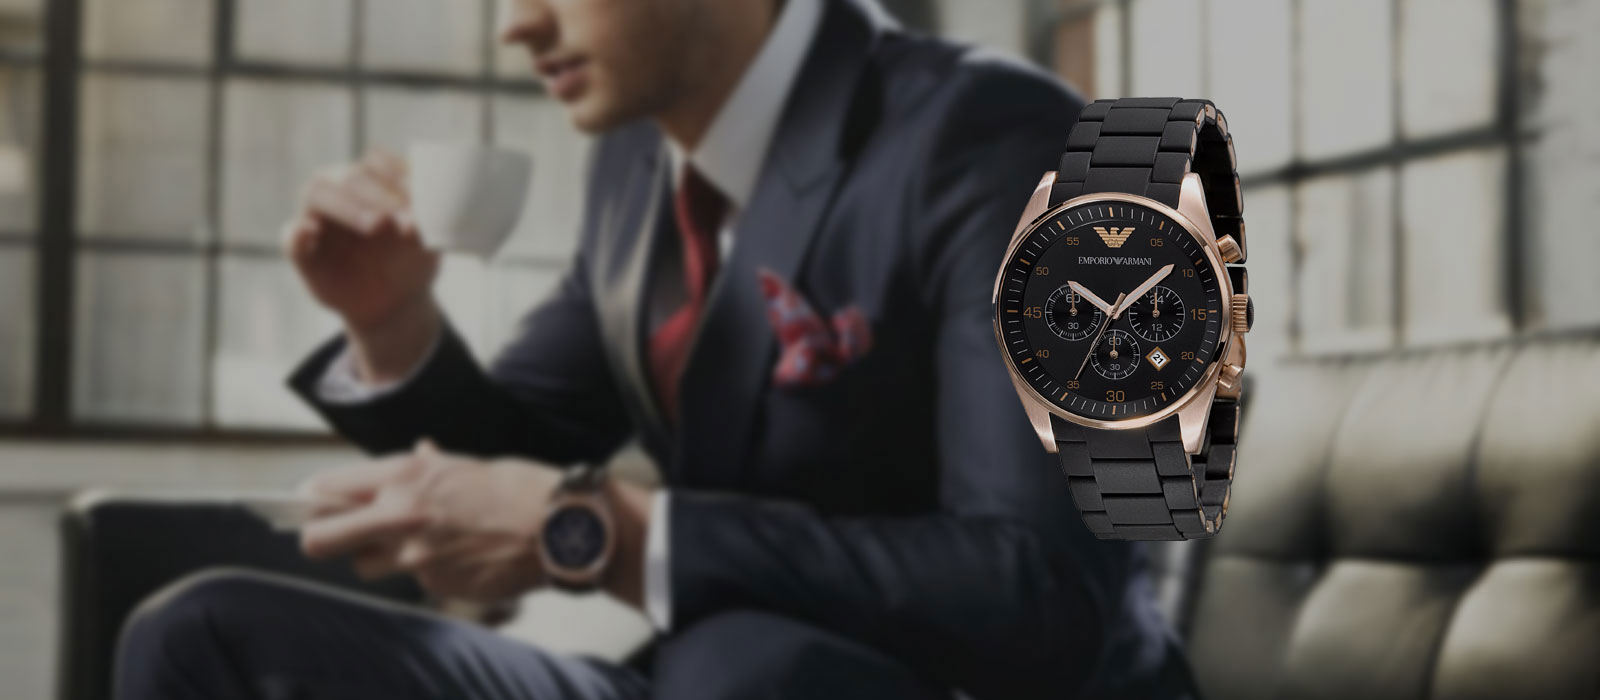
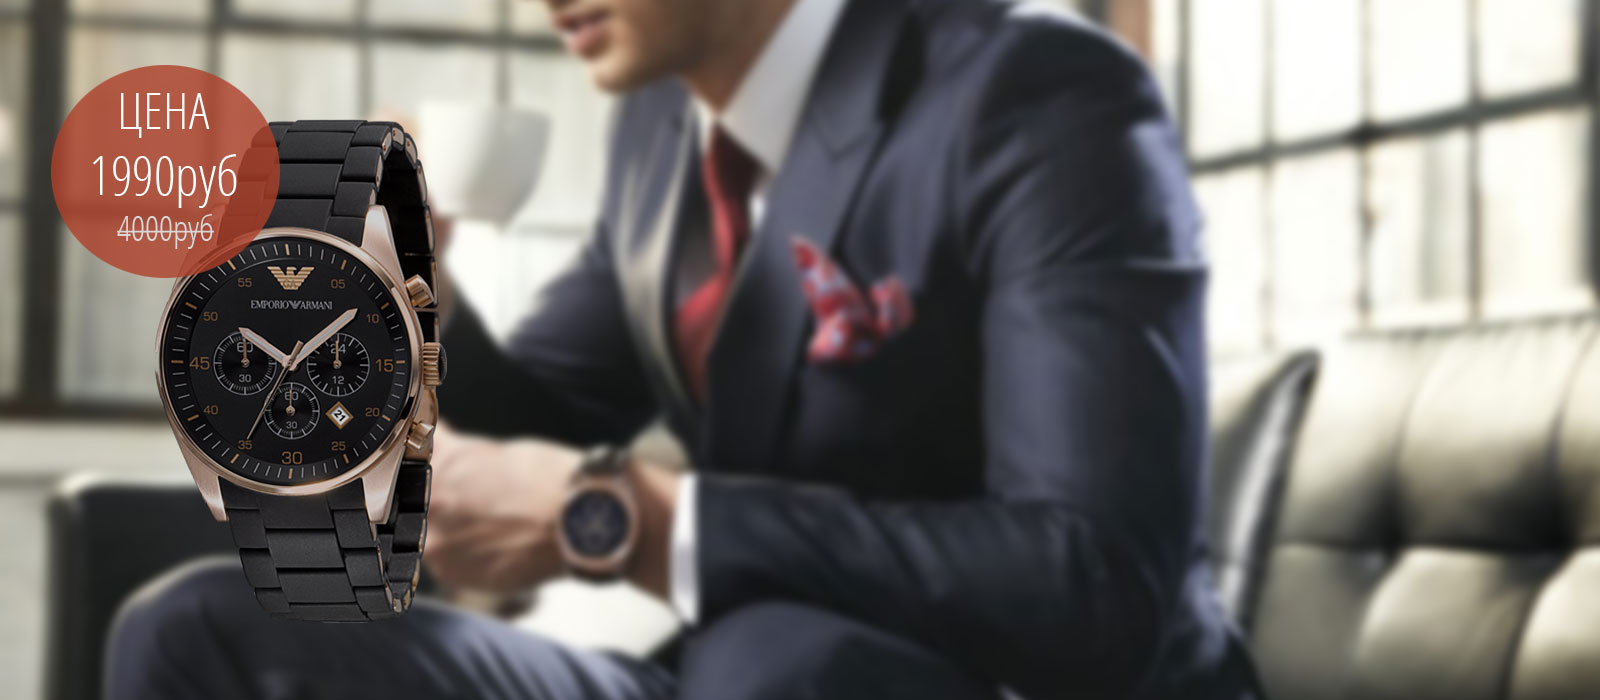
Add files via upload

diff --git a/index.html b/index.html
@@ -32,9 +32,6 @@
 
 
 
-
-
-
 <body>
 	<div class="wrapper_main">
 
@@ -60,14 +57,13 @@
 	  	</ul>	  
 	  </div>
   
-  	<div class="back"  style="font-family: Raleway;">  
-      	<span class="h_one" style="font-weight: 300;font-">Emporio Armani
-        <p class="discription"> Часы, которые должен носить 
-   	   каждый <br>уважающий себя мужчина!</p></span>
-   	   <a href="#wrapper_form" class="button">Заказать</a>   	 
-    </div>
-   
-
+  <div class="back">  
+      	
+   	   <a href="#wrapper_form" class="button">Заказать</a> 
+   	  <div class="taimer">
+   	    <script src="http://megatimer.ru/s/73f43da8d59ed368c554404a442ca722.js"></script>
+   	  </div> 
+   </div>
 
 
  <div id="wrapper_form">
@@ -92,11 +88,11 @@
  </div>
 <div class="character">
 	<ul id="ulch">
-		<li>Механизм: Кварц/Механика<br>с автоподзаводом</li>
+		<li>Механизм: Кварц/Механика</li>
 		<li>Сборка: Бельгия</li>
-		<li>Cтекло: сапфировое,<br>износостойкое</li>
-		<li>Корпус: полированная сталь с<br>IPG - покрытием</li>
-		<li>Защита: пыле и<br>влагоустойчивые</li>
+		<li>Cтекло: сапфировое,износостойкое</li>
+		<li>Корпус: полированная сталь с IPG - покрытием</li>
+		<li>Защита: пыле ивлагоустойчивые</li>
 		<li>Браслет: каучук и сталь</li>
 		<li>Длина ремешка: 24 см</li>
 		<li>Гарантия: 1 год</li>

diff --git a/style.css b/style.css
@@ -89,7 +89,7 @@ a { text-decoration: none;display: inline-block;}
 	text-align: center;
 	position: relative;
 	color: #fff;
-	top:390px;
+	top:430px;
 	left: 1005px;
 	width: 200px; 
 	height: 35px;
@@ -102,6 +102,7 @@ a { text-decoration: none;display: inline-block;}
     box-shadow: inset 0px -3px 1px rgba(0, 0, 0, 0.45), 0px 2px 2px rgba(0, 0, 0, 0.25);
     border-radius: 3px;
 }
+.button:hover {background-color: #5BCEEB;}
 .character {
 	position: absolute;
 	background-color: transparent;
@@ -111,6 +112,7 @@ a { text-decoration: none;display: inline-block;}
 	font-family: roboto;
 	font-size: 20px;
 }
+.taimer {position: relative;top: 550px;left:840px;width: 500px;margin-right:100px;}
 .cpho{
 	position: absolute;
 	top: 120px;
@@ -121,9 +123,9 @@ a { text-decoration: none;display: inline-block;}
 #ulch {
  position: relative;
  top: 140px;
- margin-left:750px;
+ left:750px;
  width: 550px;
- line-height: 30px;
+ line-height: 45px;
  list-style: none;
 }
 #ulch > li:before {
@@ -202,27 +204,7 @@ a { text-decoration: none;display: inline-block;}
  	background-repeat: no-repeat;
   }
 
-.h_one {
-	position: absolute;
-	left: 0;
-	padding-left: 40px;	
-	color: #fff;
-	top: 200px;
-	font-size: 60px;
-    font-style: italic;
-}
 
- .discription {
-  	position: relative;
-  	font-family: Roboto;
- 	color: black;
-	font-size: 45px;
-	color: #fff;
-	background-color:#CF4B32;
-	padding: 7px;
-	margin-top: 10px;
-	border-left: 10px solid #A13B27;
- }
 
 .img {
 	position: absolute;
